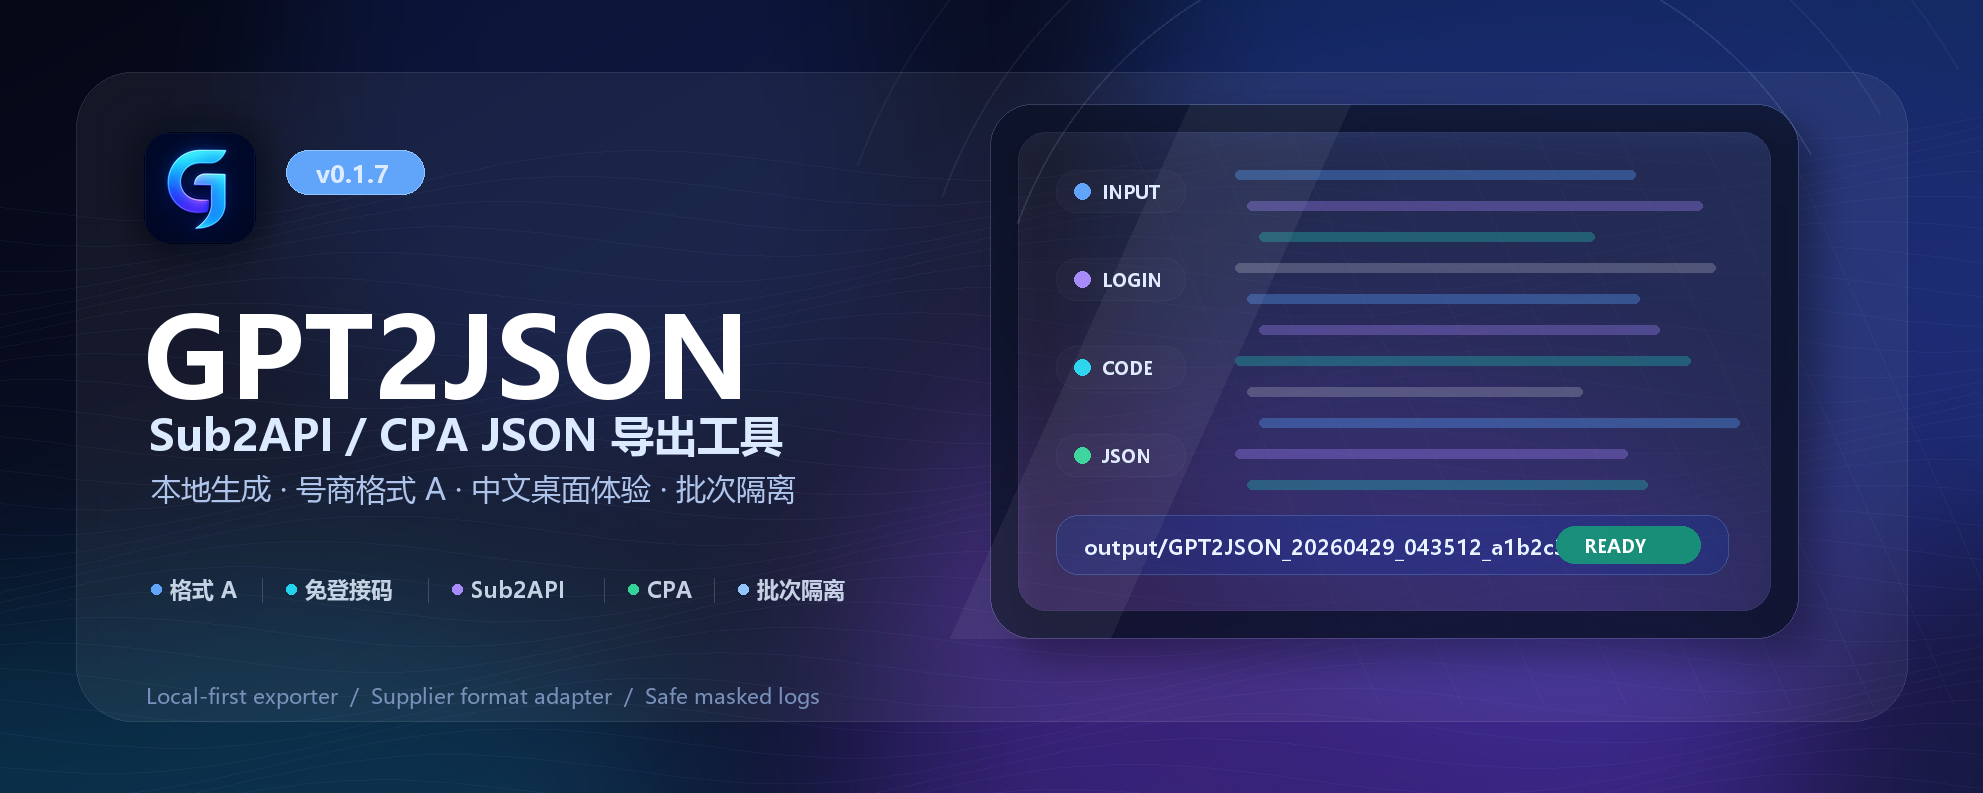
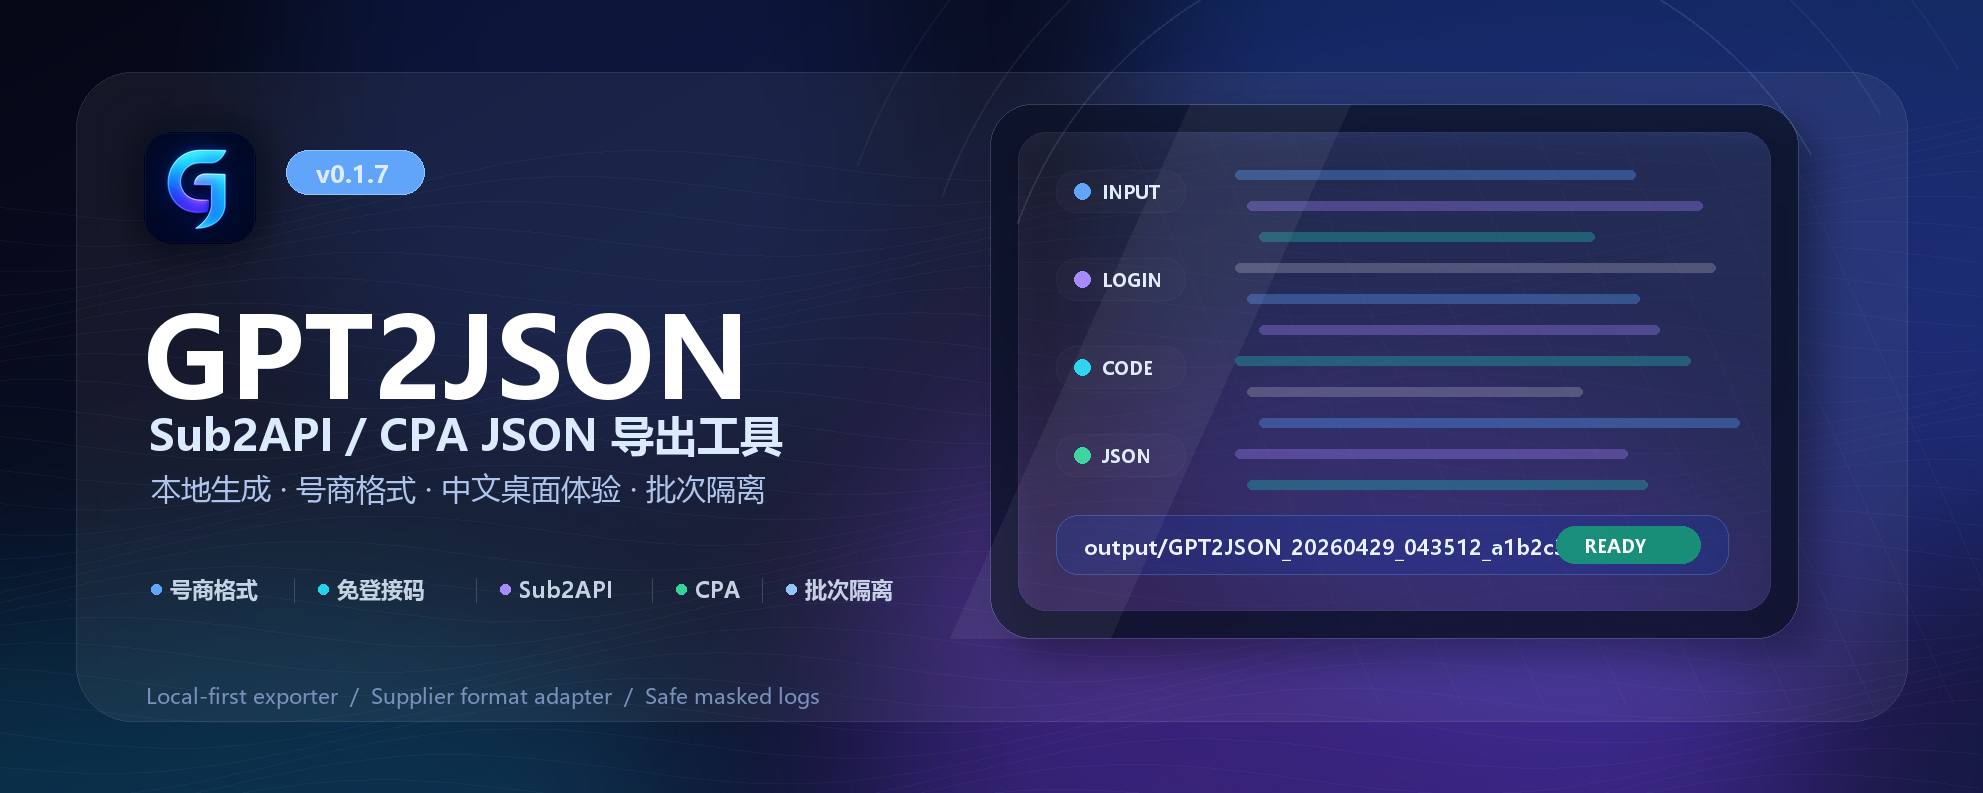
Use supplier format wording in release art

Changed region(s): [[0.0615, 0.7264, 0.4614, 0.7566], [0.2153, 0.6053, 0.3999, 0.6356]]

diff --git a/scripts/generate_docs_assets.py b/scripts/generate_docs_assets.py
@@ -131,12 +131,12 @@ def create_hero() -> None:
     draw.text((316, 157), f"v{version}", font=font(24, bold=True), fill="#DCEBFF")
     draw.text((144, 280), "GPT2JSON", font=font(112, bold=True), fill="#FFFFFF")
     draw.text((149, 405), "Sub2API / CPA JSON 导出工具", font=font(43, bold=True), fill="#DBEAFE")
-    draw.text((151, 468), "本地生成 · 号商格式 A · 中文桌面体验 · 批次隔离", font=font(30), fill="#AFC4EA")
+    draw.text((151, 468), "本地生成 · 号商格式 · 中文桌面体验 · 批次隔离", font=font(30), fill="#AFC4EA")
 
     # Minimal capability row: fine separators instead of heavy badges.
     cap_layer = Image.new("RGBA", img.size, (0, 0, 0, 0))
     cap_draw = ImageDraw.Draw(cap_layer)
-    cap_specs = [(151, "格式 A", "#60A5FA"), (286, "免登接码", "#22D3EE"), (452, "Sub2API", "#A78BFA"), (628, "CPA", "#34D399"), (738, "批次隔离", "#93C5FD")]
+    cap_specs = [(151, "号商格式", "#60A5FA"), (318, "免登接码", "#22D3EE"), (500, "Sub2API", "#A78BFA"), (676, "CPA", "#34D399"), (786, "批次隔离", "#93C5FD")]
     for index, (x, label, color) in enumerate(cap_specs):
         cap_draw.ellipse((x, 584, x + 10, 594), fill=color)
         cap_draw.text((x + 19, 574), label, font=font(22, bold=True), fill=(226, 239, 255, 218))
@@ -223,11 +223,11 @@ def create_installer_preview() -> None:
         label_font = font(max(12, int(14 * sy)))
         pill_font = font(max(11, int(13 * sy)), bold=True)
         draw.rounded_rectangle(
-            (int(174 * sx), int(428 * sy), int(398 * sx), int(452 * sy)),
+            (int(174 * sx), int(428 * sy), int(426 * sx), int(452 * sy)),
             radius=max(8, int(10 * sy)),
             fill=(16, 22, 49, 210),
         )
-        draw.text((int(178 * sx), int(433 * sy)), "格式 A · Sub2API / CPA JSON", font=label_font, fill="#B8CDEC")
+        draw.text((int(178 * sx), int(433 * sy)), "号商格式 · Sub2API / CPA JSON", font=label_font, fill="#B8CDEC")
 
         def installer_pill(x: int, icon: str, label: str) -> None:
             px = int(x * sx)
@@ -244,7 +244,7 @@ def create_installer_preview() -> None:
             draw.text((px + int(16 * sx), py + int(8 * sy)), icon, font=pill_font, fill="#6EE7FF")
             draw.text((px + int(36 * sx), py + int(8 * sy)), label, font=pill_font, fill="#E8F0FF")
 
-        installer_pill(486, "A", "格式 A")
+        installer_pill(486, "◇", "号商格式")
         installer_pill(596, "@", "免登接码")
         installer_pill(706, "↘", "本地导出")
         img.convert("RGB").save(preview, quality=96)

diff --git a/gpt2json/gui.py b/gpt2json/gui.py
@@ -146,7 +146,7 @@ def install_qt_translations(app: QApplication | None) -> None:
     _QT_TRANSLATIONS_INSTALLED = installed
 
 
-READY_LOG = "🟢 等待开始：请粘贴账号文本，或导入账号文件。\n📄 当前支持：号商格式 A（GPT 账密 + 免登录接码）：https://pay.ldxp.cn/shop/plus7，后续格式适配敬请期待。\n📮 说明：程序会优先尝试 GPT 账密登录；只有服务端要求验证码时，才会访问输入里的接码源。"
+READY_LOG = "🟢 等待开始：请粘贴账号文本，或导入账号文件。\n📄 当前支持：号商格式（GPT 账密 + 免登录接码）：https://pay.ldxp.cn/shop/plus7，后续格式适配敬请期待。\n📮 说明：程序会优先尝试 GPT 账密登录；只有服务端要求验证码时，才会访问输入里的接码源。"
 _UI_FONT_FAMILY = ""
 _QT_TRANSLATORS: list[QTranslator] = []
 _QT_TRANSLATIONS_INSTALLED = False
@@ -456,7 +456,7 @@ class MainWindow(QMainWindow):
         self.paste_edit = QPlainTextEdit()
         self.paste_edit.setObjectName("PasteBox")
         self.paste_edit.setSizePolicy(QSizePolicy.Policy.Expanding, QSizePolicy.Policy.Expanding)
-        self.paste_edit.setPlaceholderText("自动识别账号格式\n当前支持：号商格式 A：GPT邮箱----GPT登录密码----免登录接码源\n每行一个账号，以当前选中的输入来源为准。")
+        self.paste_edit.setPlaceholderText("自动识别账号格式\n当前支持：号商格式：GPT邮箱----GPT登录密码----免登录接码源\n每行一个账号，以当前选中的输入来源为准。")
         self.paste_edit.textChanged.connect(self._on_paste_changed)
         install_chinese_text_context_menu(self.paste_edit)
         self.input_stack.addWidget(self.paste_edit)

diff --git a/packaging/windows/artsetup/ArtSetup.cs b/packaging/windows/artsetup/ArtSetup.cs
@@ -243,7 +243,7 @@ namespace GPT2JSON.Setup
 
             var sub = new TextBlock
             {
-                Text = "格式 A · Sub2API / CPA JSON",
+                Text = "号商格式 · Sub2API / CPA JSON",
                 Foreground = new SolidColorBrush(Color.FromRgb(184, 205, 236)),
                 FontSize = 14,
                 Margin = new Thickness(103, 354, 0, 0)
@@ -312,7 +312,7 @@ namespace GPT2JSON.Setup
             overlay.Children.Add(title);
 
             var features = new WrapPanel();
-            features.Children.Add(FeaturePill("A", "格式 A"));
+            features.Children.Add(FeaturePill("◇", "号商格式"));
             features.Children.Add(FeaturePill("@", "免登接码"));
             features.Children.Add(FeaturePill("↘", "本地导出"));
             Canvas.SetLeft(features, 410);

diff --git a/gpt2json/parsing.py b/gpt2json/parsing.py
@@ -169,7 +169,7 @@ def parse_account_lines(lines: Iterable[str]) -> list[AccountRow]:
 INPUT_FORMATS: dict[str, InputFormat] = {
     "dash_otp": InputFormat(
         id="dash_otp",
-        label="号商格式 A / GPT账密+免登录接码",
+        label="号商格式 / GPT账密+免登录接码",
         parser=parse_dash_otp_lines,
         description="目前暂时只支持号商页面 https://pay.ldxp.cn/shop/plus7 提供的账号格式；字段为 GPT 邮箱、GPT/OpenAI 登录密码、免登录接码源，后续格式适配敬请期待。",
         placeholder="GPT邮箱----GPT登录密码----免登录接码源\n每行一个账号，粘贴内容优先于文件。",

diff --git a/tests/test_parsing.py b/tests/test_parsing.py
@@ -26,7 +26,7 @@ def test_parse_account_lines_dedupes_and_normalizes():
 
 def test_input_format_registry_supports_auto_and_errors():
     dash_format = next(fmt for fmt in list_input_formats() if fmt.id == "dash_otp")
-    assert "号商格式 A" in dash_format.label
+    assert "号商格式" in dash_format.label
     assert "免登录接码" in dash_format.label
     assert "pay.ldxp.cn/shop/plus7" in dash_format.description
     assert dash_format.placeholder

diff --git a/packaging/windows/artsetup/ArtUninstall.cs b/packaging/windows/artsetup/ArtUninstall.cs
@@ -360,7 +360,7 @@ namespace GPT2JSON.Uninstall
             });
             shell.Children.Add(new TextBlock
             {
-                Text = "格式 A · Sub2API / CPA JSON",
+                Text = "号商格式 · Sub2API / CPA JSON",
                 Foreground = new SolidColorBrush(Color.FromRgb(184, 205, 236)),
                 FontSize = 14,
                 Margin = new Thickness(103, 354, 0, 0)

diff --git a/docs/input-formats.md b/docs/input-formats.md
@@ -31,7 +31,7 @@ AccountRow(
 
 ## 当前内置格式
 
-当前内置格式注册为 `dash_otp`，桌面端显示为 `号商格式 A / GPT账密+免登录接码`。目前暂时只支持号商页面 <https://pay.ldxp.cn/shop/plus7> 提供的账号格式，后续格式适配敬请期待。用户侧默认可以保持 `auto`，由 parser 注册表自动匹配。
+当前内置格式注册为 `dash_otp`，桌面端显示为 `号商格式 / GPT账密+免登录接码`。目前暂时只支持号商页面 <https://pay.ldxp.cn/shop/plus7> 提供的账号格式，后续格式适配敬请期待。用户侧默认可以保持 `auto`，由 parser 注册表自动匹配。
 
 桌面端也会展示若干未来预制格式，例如号商邮箱账密、号商邮箱令牌、号商自定义取码、CSV/表格批量等；这些预制项当前仅用于展示路线，处于禁用状态，不能被选中。实际开放顺序以号商提供的交付格式为准。
 

diff --git a/README.md b/README.md
@@ -75,9 +75,9 @@ gpt2json --input accounts.txt --out-dir output --input-format auto
 
 | 格式 | 支持状态 | 字段结构 |
 | --- | --- | --- |
-| [号商格式 A](https://pay.ldxp.cn/shop/plus7) | ✅ 已支持 | GPT 账号 + GPT 登录密码 + 免登录接码源 |
+| [号商格式](https://pay.ldxp.cn/shop/plus7) | ✅ 已支持 | GPT 账号 + GPT 登录密码 + 免登录接码源 |
 
-当前版本只对 **号商格式 A** 做了适配；其它来源、其它字段顺序或其它接码方式暂不保证可识别。
+当前版本只对上面这个号商页面交付的账号格式做了适配；其它来源、其它字段顺序或其它接码方式暂不保证可识别。
 
 ### 支持的账号格式
 

diff --git a/docs/mail-backends.md b/docs/mail-backends.md
@@ -2,7 +2,7 @@
 
 GPT2JSON 后续格式适配以 **号商实际提供的交付格式** 为准，而不是先对外承诺某一类抽象协议。
 
-当前公开版本暂时只支持号商页面 <https://pay.ldxp.cn/shop/plus7> 提供的 **号商格式 A：GPT 账号 + GPT 登录密码 + 免登录接码源**：
+当前公开版本暂时只支持号商页面 <https://pay.ldxp.cn/shop/plus7> 提供的 **号商格式：GPT 账号 + GPT 登录密码 + 免登录接码源**：
 
 ```text
 GPT邮箱----GPT登录密码----免登录接码源
